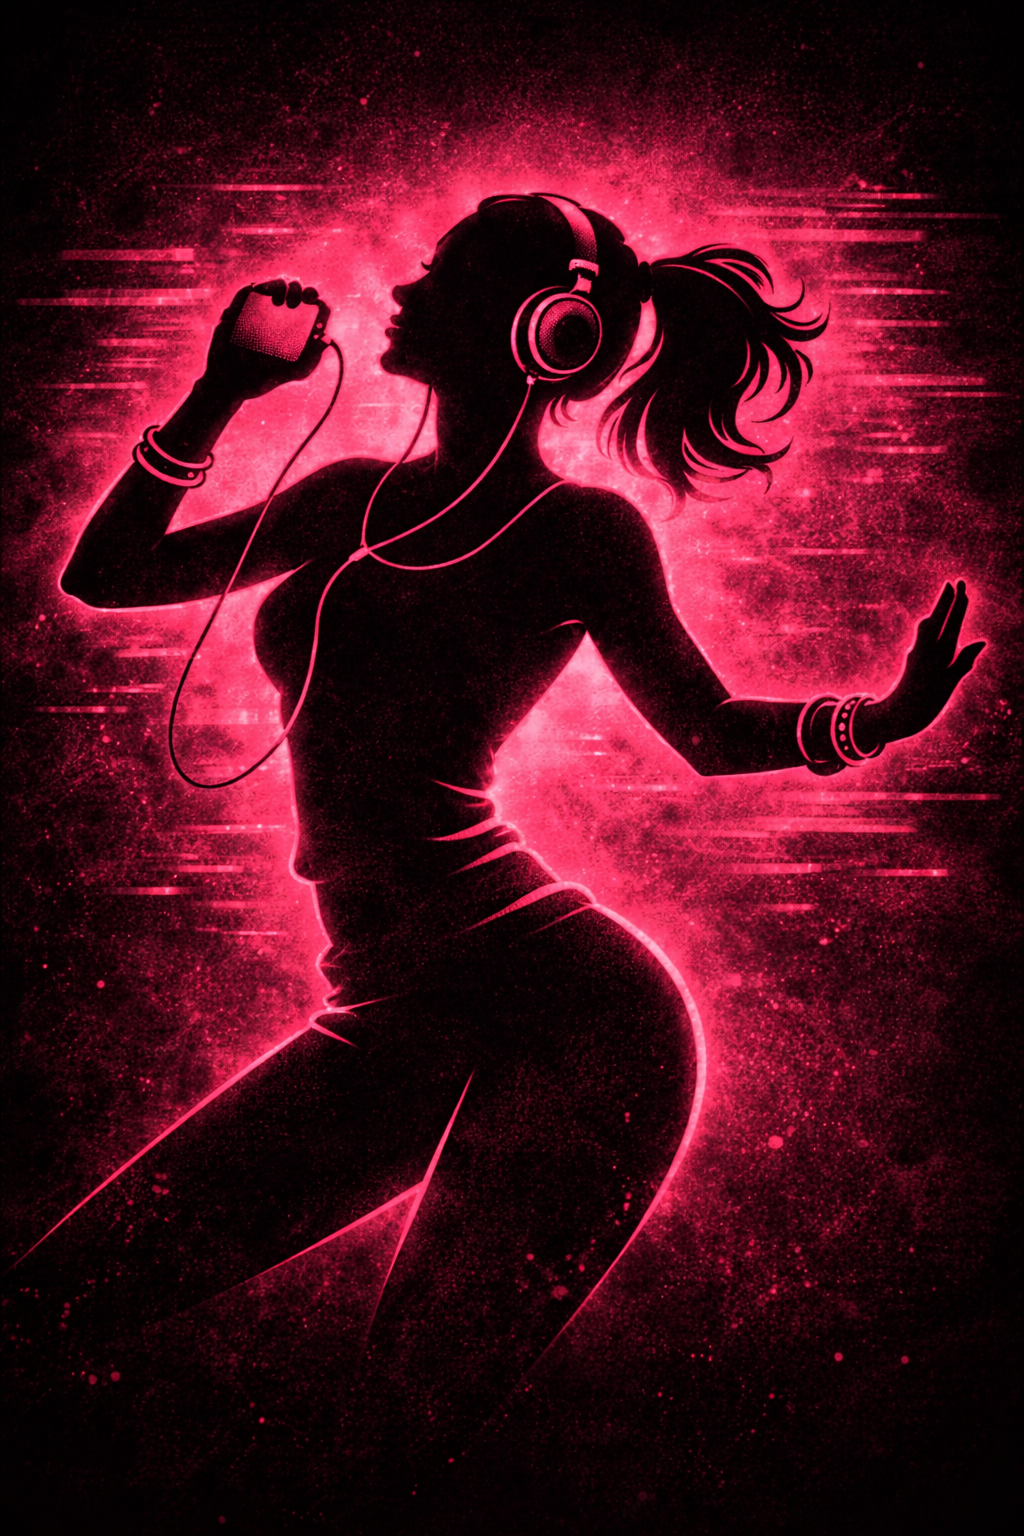
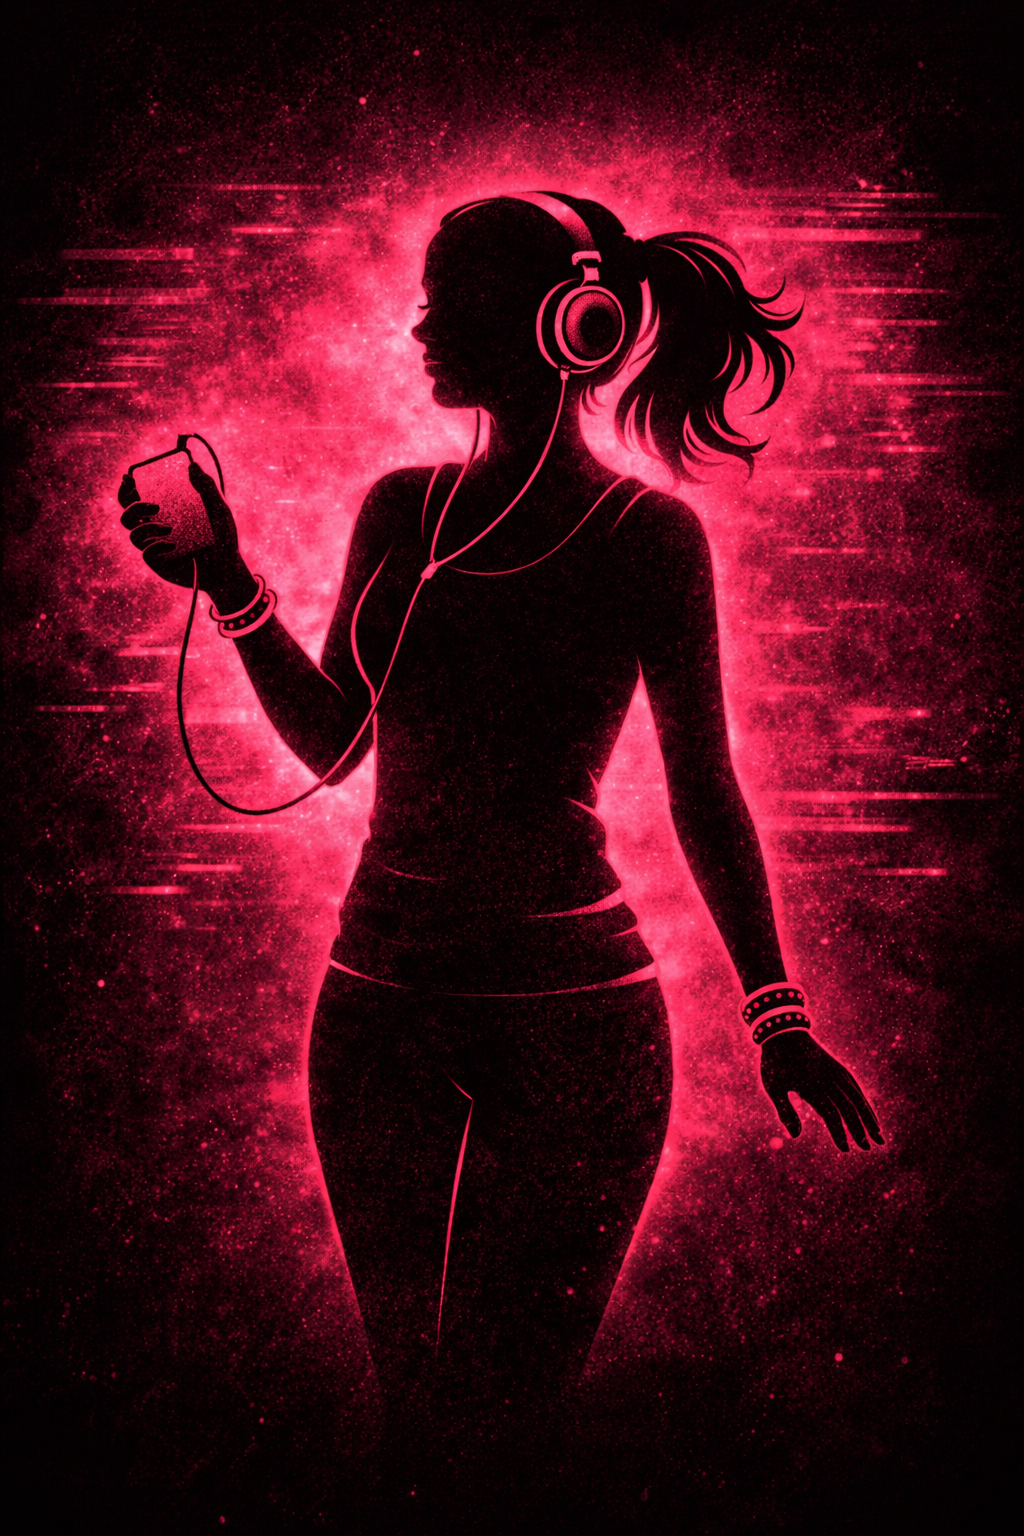
Working full screen player

diff --git a/src/app.js b/src/app.js
@@ -2650,7 +2650,7 @@ function advanceToPrevTrack({ render: doRender = false } = {}) {
 }
 
 globalAudio?.addEventListener("ended", () => {
-  if (!advanceToNextTrack()) syncMiniPlayerUI();
+  if (!advanceToNextTrack({ render: fullPlayerOpen })) syncMiniPlayerUI();
 });
 
 // ---------------------
@@ -5376,11 +5376,96 @@ function renderNowPlaying() {
 
   setHeader("Now Playing");
   const isFirstOpen = !fullPlayerOpen;
+  fullPlayerOpen = true;
   setFullPlayerOpen(true);
 
   const title = song.title || "Untitled";
   const subtitle = v.label || "Version";
   const art = coverSvg(song);
+
+  // ── Track-change horizontal slide (skip full rebuild when already open) ──
+  if (!isFirstOpen) {
+    const dir = _miniCarouselDir || 1;
+    _miniCarouselDir = 0;
+
+    const fp = document.getElementById("fullPlayer");
+    if (fp) {
+      const artCard = fp.querySelector(".fpArtCard");
+      const meta = fp.querySelector(".fpMeta");
+      const bg = fp.querySelector(".fpBg");
+
+      if (artCard && meta) {
+        const exitX  = dir === 1 ? "-110%" : "110%";
+        const enterX = dir === 1 ? "110%"  : "-110%";
+        const dur = "0.4s";
+        const ease = "cubic-bezier(.32,.72,.24,1)";
+
+        // Clone old content for exit animation
+        const fpRect   = fp.getBoundingClientRect();
+        const artRect  = artCard.getBoundingClientRect();
+        const metaRect = meta.getBoundingClientRect();
+
+        const artClone  = artCard.cloneNode(true);
+        const metaClone = meta.cloneNode(true);
+
+        for (const c of [artClone, metaClone]) {
+          c.style.position = "absolute";
+          c.style.zIndex = "5";
+          c.style.margin = "0";
+          c.style.flexShrink = "0";
+        }
+        artClone.style.top    = (artRect.top  - fpRect.top)  + "px";
+        artClone.style.left   = (artRect.left - fpRect.left) + "px";
+        artClone.style.width  = artRect.width  + "px";
+        artClone.style.height = artRect.height + "px";
+        metaClone.style.top   = (metaRect.top  - fpRect.top)  + "px";
+        metaClone.style.left  = (metaRect.left - fpRect.left) + "px";
+        metaClone.style.width = metaRect.width + "px";
+
+        fp.appendChild(artClone);
+        fp.appendChild(metaClone);
+
+        // Update real elements with new song data
+        artCard.querySelector(".fpArt").innerHTML = art;
+        meta.querySelector(".fpTitle").textContent = title;
+        meta.querySelector(".fpSub").textContent   = subtitle;
+        if (bg) bg.innerHTML = art;
+
+        // Position new content off-screen
+        artCard.style.transition = "none";
+        meta.style.transition    = "none";
+        artCard.style.transform  = `translateX(${enterX})`;
+        meta.style.transform     = `translateX(${enterX})`;
+
+        requestAnimationFrame(() => requestAnimationFrame(() => {
+          // Slide clones out
+          artClone.style.transition  = `transform ${dur} ${ease}, opacity ${dur} ease`;
+          metaClone.style.transition = `transform ${dur} ${ease}, opacity ${dur} ease`;
+          artClone.style.transform   = `translateX(${exitX})`;
+          artClone.style.opacity     = "0";
+          metaClone.style.transform  = `translateX(${exitX})`;
+          metaClone.style.opacity    = "0";
+
+          // Slide new content in
+          artCard.style.transition = `transform ${dur} ${ease}`;
+          meta.style.transition    = `transform ${dur} ${ease}`;
+          artCard.style.transform  = "translateX(0)";
+          meta.style.transform     = "translateX(0)";
+
+          const cleanUp = (el) => {
+            el.style.transition = "";
+            el.style.transform  = "";
+          };
+          artClone.addEventListener("transitionend",  () => artClone.remove(),  { once: true });
+          metaClone.addEventListener("transitionend", () => metaClone.remove(), { once: true });
+          artCard.addEventListener("transitionend",   () => cleanUp(artCard),   { once: true });
+          meta.addEventListener("transitionend",      () => cleanUp(meta),      { once: true });
+        }));
+
+        return; // skip full innerHTML rebuild
+      }
+    }
+  }
 
   const _shuffleSvg = `<svg viewBox="0 0 24 24" width="28" height="28" fill="none" stroke="currentColor" stroke-width="2" stroke-linecap="round" stroke-linejoin="round"><polyline points="16 3 21 3 21 8"/><line x1="4" y1="20" x2="21" y2="3"/><polyline points="21 16 21 21 16 21"/><line x1="4" y1="4" x2="21" y2="21"/></svg>`;
   const _prevSvg    = `<svg viewBox="0 0 24 24" width="35" height="35" fill="currentColor"><path d="M6 6h2v12H6zm3.5 6 8.5 6V6z"/></svg>`;
@@ -5488,6 +5573,7 @@ function renderNowPlaying() {
 
   const closeFullPlayer = () => {
     cleanup();
+    fullPlayerOpen = false;
     setFullPlayerOpen(false);
     playerScreen = "list";
     if (prevTabBeforeFullPlayer) {

diff --git a/sw.js b/sw.js
@@ -8,7 +8,7 @@
 
 // Type ./start.sh to start local server
 
-const CACHE_VERSION = "2026-03-04_17"; // <-- bump this when you deploy
+const CACHE_VERSION = "2026-03-04_20"; // <-- bump this when you deploy
 const STATIC_CACHE = `riffbank-static-${CACHE_VERSION}`;
 const RUNTIME_CACHE = `riffbank-runtime-${CACHE_VERSION}`;
 
